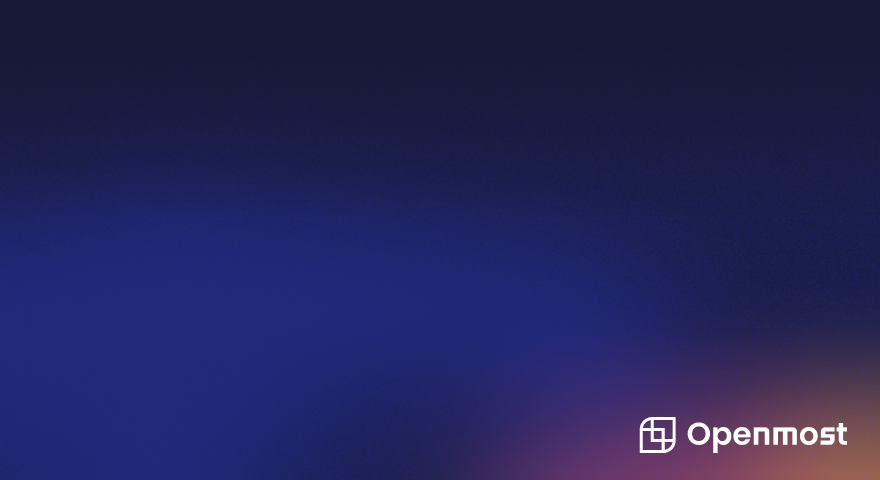
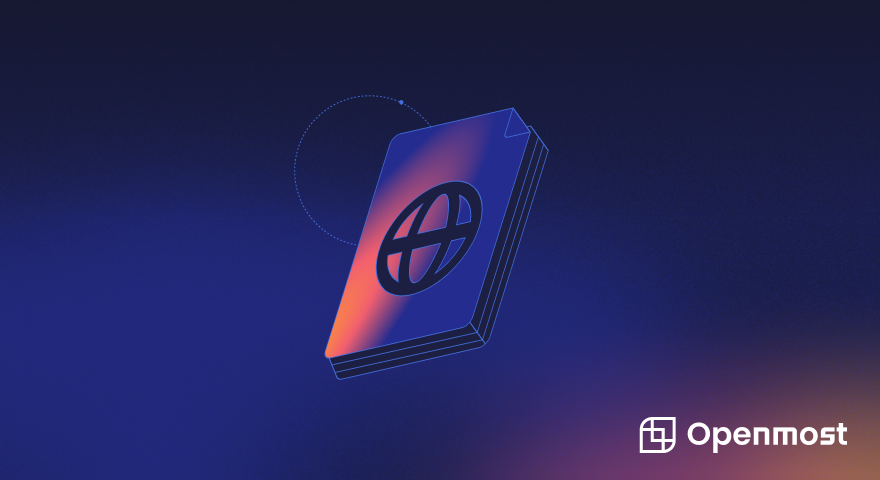
update: marketplace cover

Changed region(s): [[0.3682, 0.2188, 0.6136, 0.8125], [0.4295, 0.1875, 0.4602, 0.2188]]

diff --git a/CHANGELOG.md b/CHANGELOG.md
@@ -1,5 +1,9 @@
 ## Changelog
 
+### v5.0.5
+
+update: marketplace cover
+
 ### v5.0.4
 
 update: marketplace category and cover
